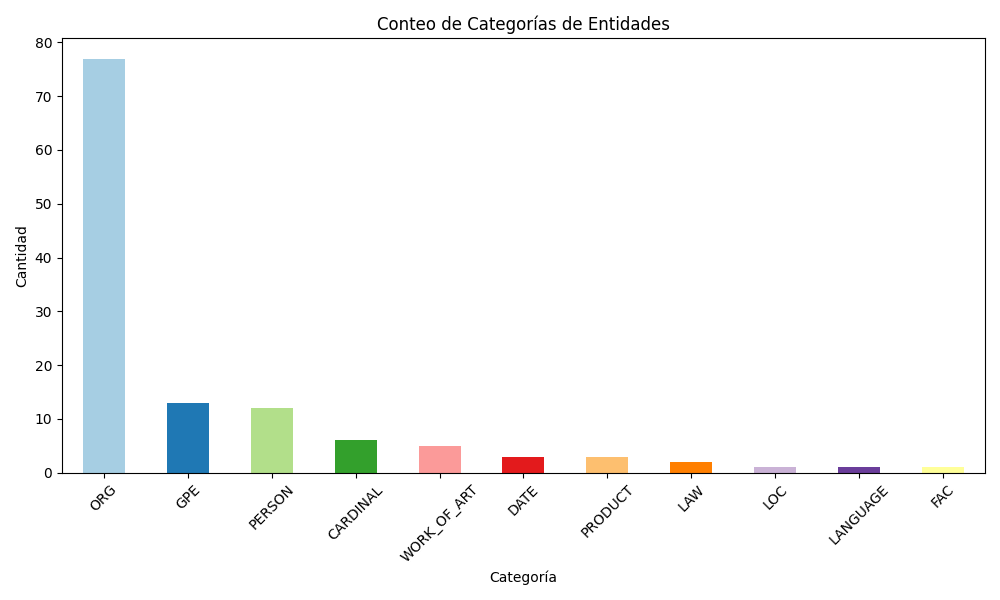
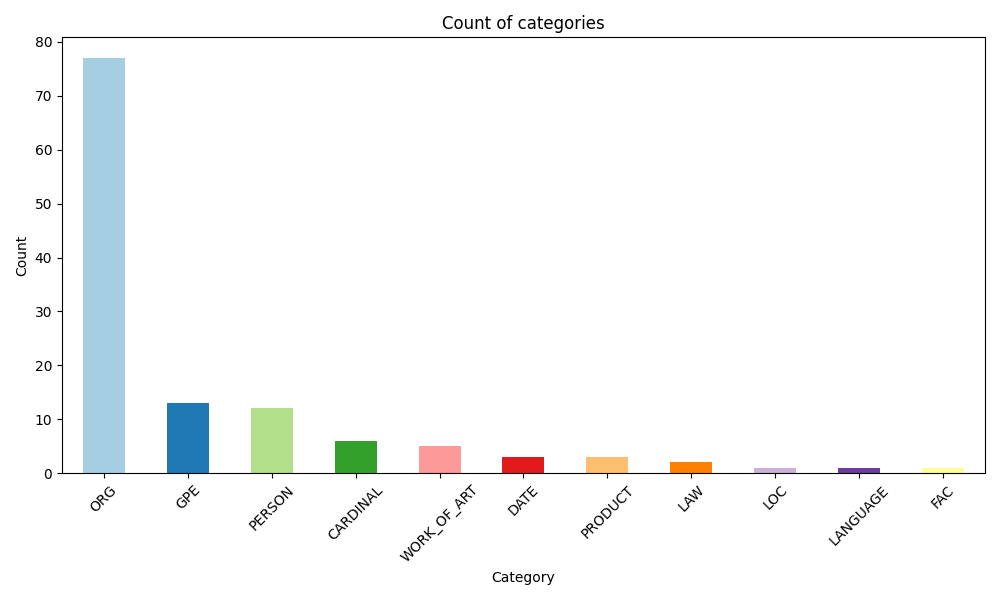
runned overwrite files

diff --git a/combiScraping04.py b/combiScraping04.py
@@ -86,9 +86,9 @@ conteo_categorias = entidadesEncontradas['Categoría'].value_counts()
 # Graficar
 plt.figure(figsize=(10, 6))
 conteo_categorias.plot(kind='bar', color=plt.cm.Paired(range(len(conteo_categorias))))
-plt.xlabel('Categoría')
-plt.ylabel('Cantidad')
-plt.title('Conteo de Categorías de Entidades')
+plt.xlabel('Category')
+plt.ylabel('Count')
+plt.title('Count of categories')
 plt.xticks(rotation=45)
 plt.tight_layout()
 plt.savefig('plot.png')
